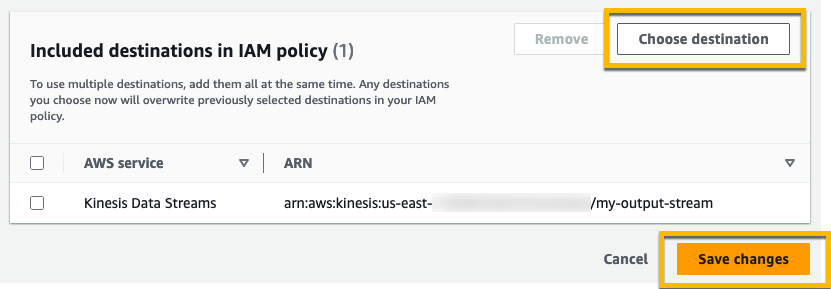
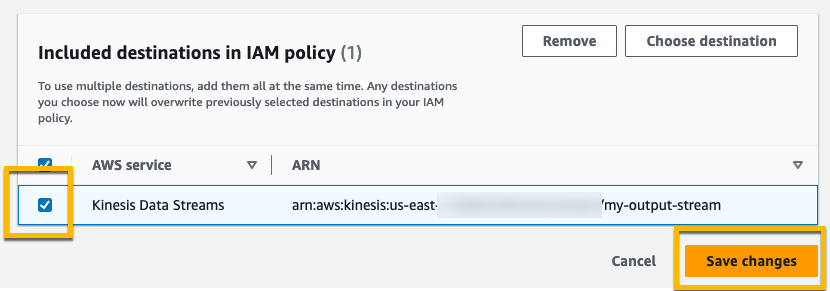
Update instructions

diff --git a/README.md b/README.md
@@ -28,7 +28,6 @@ This is data that must usually be processed sequentially and incrementally on a 
 1. For **Data stream name**, enter ```my-input-stream```.
 1. For Capacity mode, select On-demand and click **Create Data Stream**
 ![KDS](./images/create-kds.png)
-1. Repeat steps above to create another Kinesis Data Stream named ```my-output-stream```
 
 ## Create Kinesis Data Generator
 1. Click [here](https://console.aws.amazon.com/cloudformation/home?region=us-east-1#/stacks/new?stackName=Kinesis-Data-Generator-Cognito-User&templateURL=https://aws-kdg-tools.s3.us-west-2.amazonaws.com/cognito-setup.json) to start with the CloudFormation stack creation screen. 
@@ -75,30 +74,31 @@ It automatically generates dummy sensors data to send to client.
 ![Create Database](/images/create-database.png)
 1. Navigate back to the **Kinesis Data Analytics Studio console**, refresh the list and select the new database. And choose **Create Studio notebook**.
 ![Click Create Notebook](/images/create-studio-notebook-click.png)
-1. In the **Studio notebooks details** section, choose **Edit IAM permissions**
-![Edit Permissions](/images/edit-permissions.png)
-1. In the **Included destinations in IAM policy section**, choose the destination and select **my-output-stream**. Save changes and wait for the notebook to be updated.
-![Permissions](/images/IAM-Permission.png)
 1. Now that notebook has been created, choose Run
 ![Run Notebook](/images/notebook-run.png)
 
 ## Analyze Streaming Data
 1. When the notebook is running, choose **Open in Apache Zeppelin** to get access to the notebook and write code in SQL, Python, or Scala to interact with streaming data and get insights in real time.
+
 ![Open Notebook](/images/notebook-open.png)
-1. Choose **Import Note** and upload [the following notebook](./scripts/Sensors.zpln) and name it **Sensors**
-1. Open the imported note
-1. Follow the steps in the Notebook to perform streaming data analysis
+
+2. Choose **Import Note** and upload [the following notebook](./scripts/Sensors.zpln) and name it **Sensors**
+3. Open the imported note
+4. Follow the steps in the Notebook to perform streaming data analysis
+5. Please stop and [Sending Data from Kinesis Data Generator](#sending-data-from-kinesis-data-generator) again if you don't see the result in the queries
 
 ## Cleanup
 Follow the below steps to cleanup your account to prevent any aditional charges:
-* Navigate to the Kinesis Data Analytics application.
-* Select the 'anomaly-detection-application' application and click on Stop.
-            ![stopanalyticsapplication](./images/stopanalyticsapplication.png)
-* Select the 'anomaly-detection-application' application and click on Delete.
-            ![deleteanalyticsapplication](./images/deleteanalyticsapplication.png)
-* Navigate to the CloudFormation and find the stack that was deployed as part of the pre-requisites.
-* Select the stack and delete. This action will delete all the resources that were created as part of the lab and stop incurring charges.
-            ![deletedeployedstack](./images/deletedeployedstack.png)
+1. Navigate to the Kinesis Data Analytics Notebooks. Select the 'my-notebook' and click on Delete.
+    
+    ![Delete Notebook](./images/delete-notebook.png)
+2. Navigate to Kinesis Data Streams Console, select **my-input-stream** and click on Delete.
+    ![Delete Stream](./images/delete-stream.png)
+3. Navigate to the CloudFormation and find the stack that was deployed in step [Create Kinesis Data Generator](#create-kinesis-data-generator) 
+Select the stack and delete. 
+    ![deletedeployedstack](./images/deletedeployedstack.png)
+4. Navigate to the AWS Glue Databases Console and delete **my_database**
+    ![Delete Database](./images/delete-database.png)
             
 ## Conclusion
 Throughout the lab, you've learnt how to use Kinesis Data Analytics Studio to analyze streaming data.
